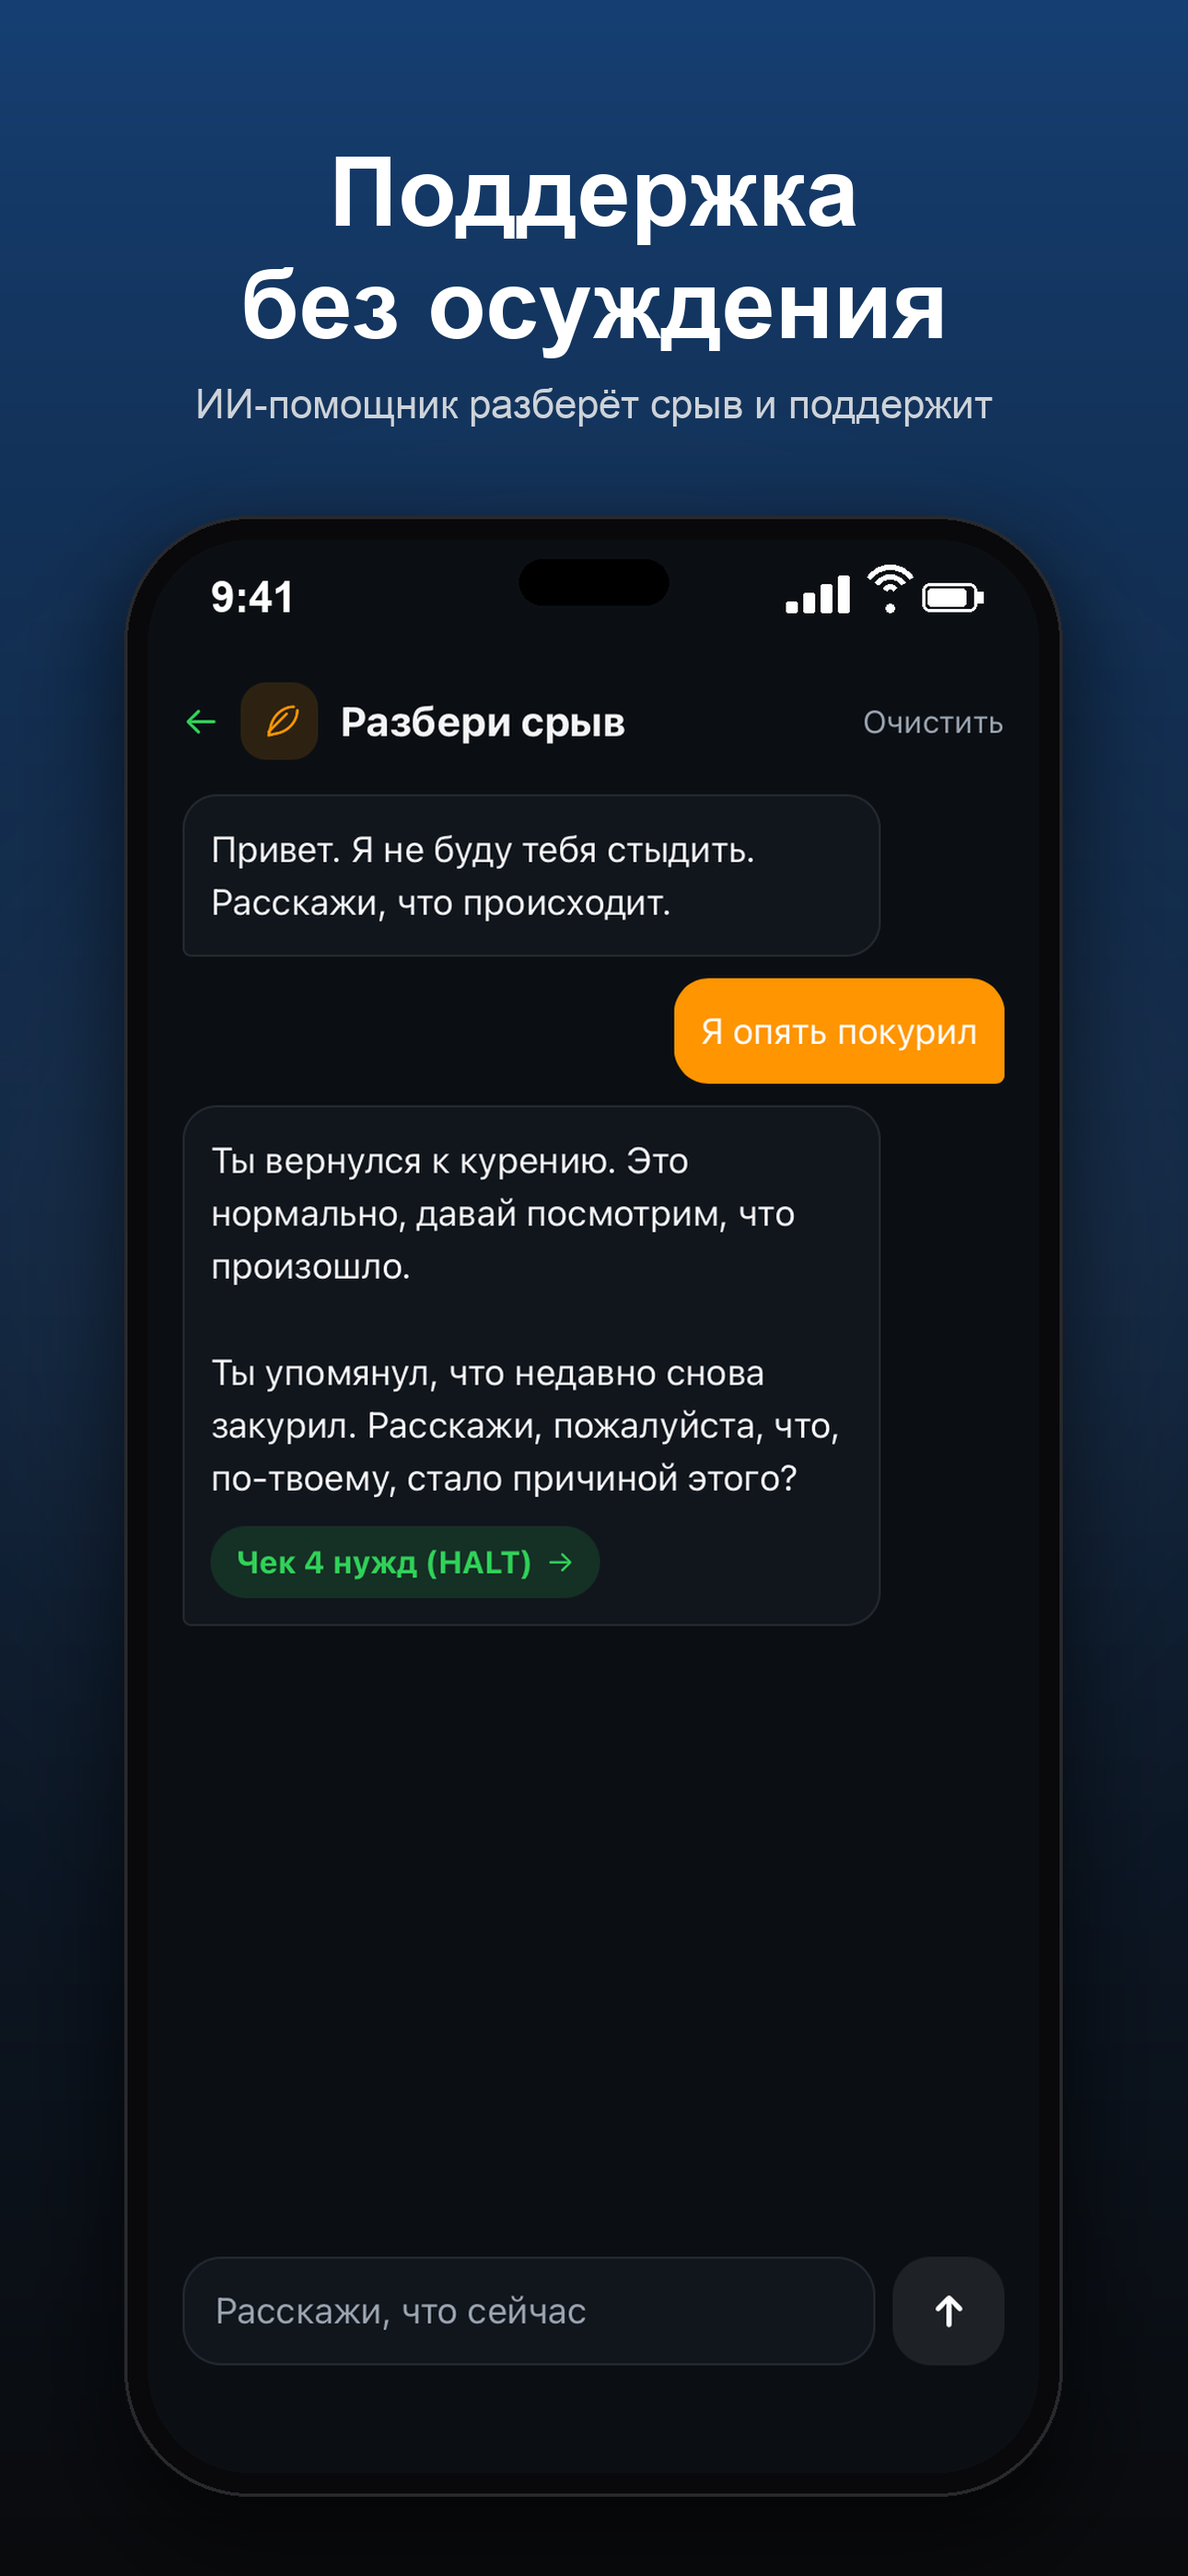
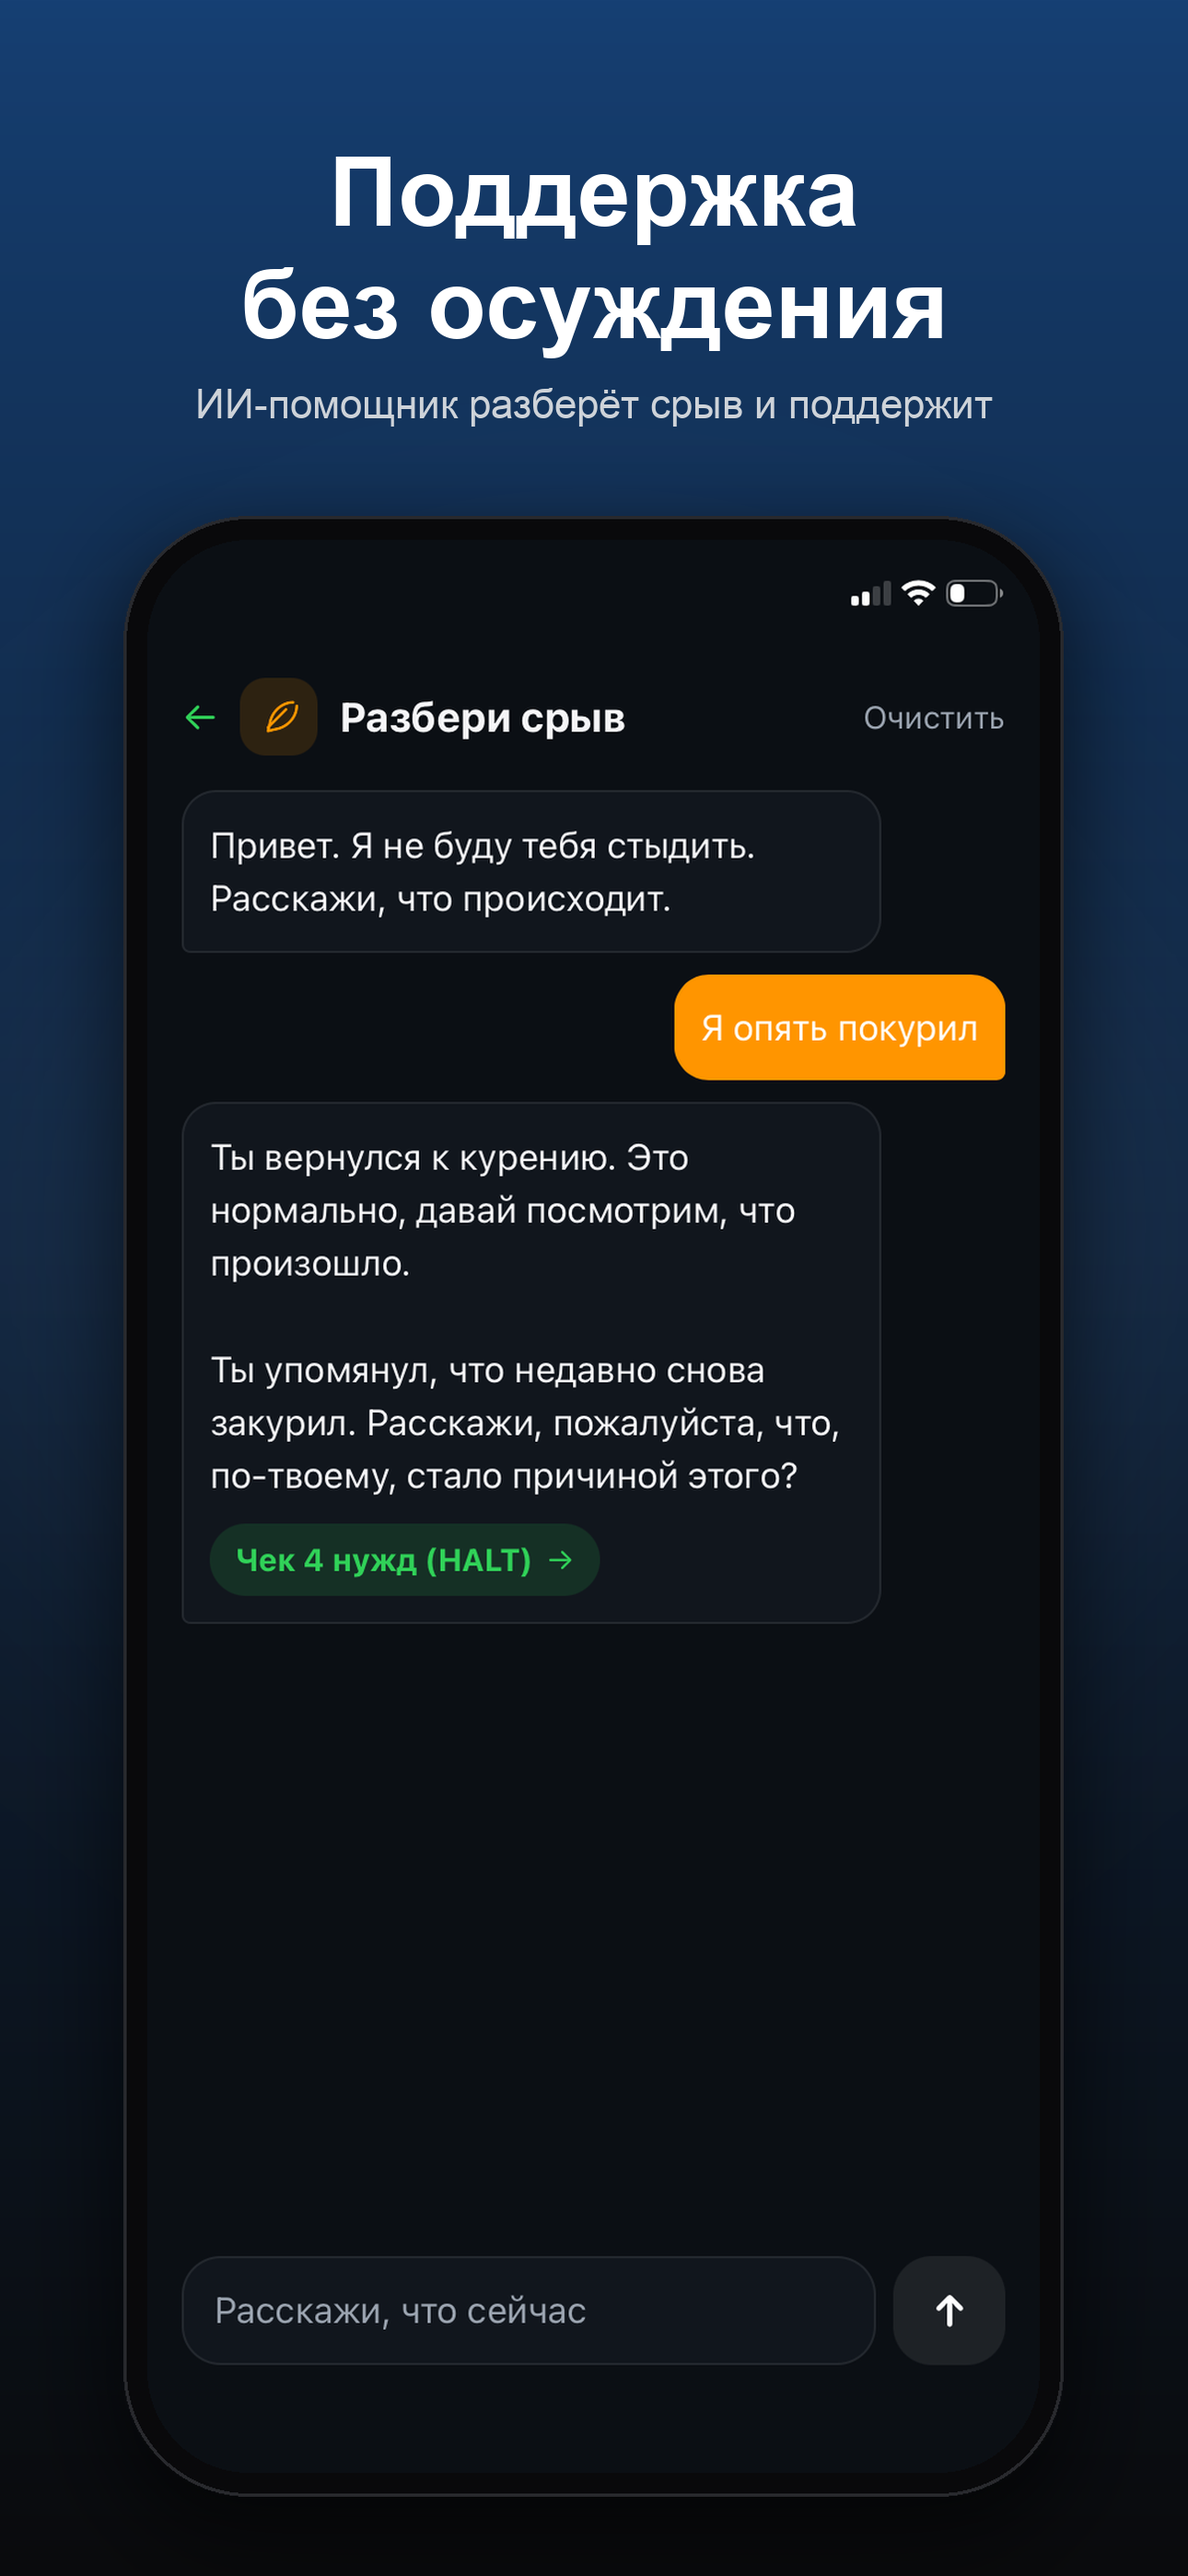
Скрины: реальный статус-бар из исходников вместо нарисованного

diff --git a/scripts/make_store_screens.py b/scripts/make_store_screens.py
@@ -90,18 +90,13 @@ def status_bar(w, h, bg):
 
 def build_phone(raw_path):
     shot = Image.open(raw_path).convert("RGB")
-    shot = shot.crop((0, 92, shot.width, shot.height))   # drop real status bar
+    # Keep the real iOS status bar — only erase the TestFlight indicator chip.
+    bg = shot.getpixel((shot.width // 2, 6))
+    d0 = ImageDraw.Draw(shot)
+    d0.rectangle([0, 32, 210, 96], fill=bg)
     inner_w = 824
     scale = inner_w / shot.width
-    shot = shot.resize((inner_w, int(shot.height * scale)), Image.LANCZOS)
-
-    strip_h = 96
-    bg = avg_color(shot, 1)
-    bar = status_bar(inner_w, strip_h, bg)
-
-    content = Image.new("RGB", (inner_w, strip_h + shot.height), bg)
-    content.paste(bar, (0, 0))
-    content.paste(shot, (0, strip_h))
+    content = shot.resize((inner_w, int(shot.height * scale)), Image.LANCZOS)
 
     cw, ch = content.size
     border = 22
